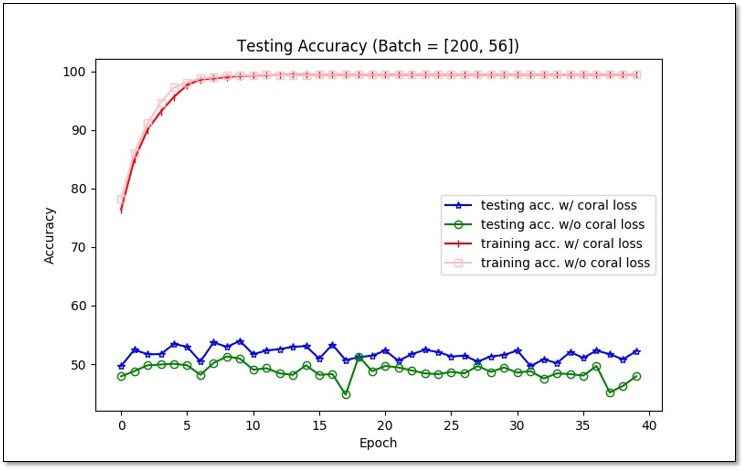
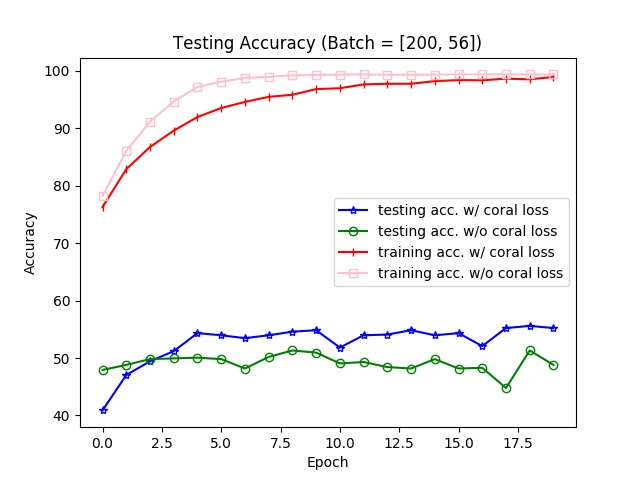
update post

diff --git a/source/_posts/deep-coral.md b/source/_posts/deep-coral.md
@@ -141,6 +141,26 @@ def backward(self, grad_output):
 可以看出有 CORAL loss 的確使得 target task 的準確率提升一些。
 不過我做出來的整體準確率並沒有與論文上的一樣有 60% 左右，而是大概在 50% 左右，不知道為甚麼… QQ
 
+# Update
+
+經過 [redhat12345](https://github.com/redhat12345) 的建議後，修正了一下 CORAL Loss 的算法，終於使 Target accuracy 提升到原論文的程度。
+```python
+def CORAL(source, target):
+    d = source.data.shape[1]
+    # source covariance
+    xm = torch.mean(source, 1, keepdim=True) - source
+    xc = torch.matmul(torch.transpose(xm, 0, 1), xm)
+    # target covariance
+    xmt = torch.mean(target, 1, keepdim=True) - target
+    xct = torch.matmul(torch.transpose(xmt, 0, 1), xmt)
+    # frobenius norm between source and target
+    loss = torch.mean(torch.mul((xc - xct), (xc - xct)))
+    loss = loss/(4*d*4)
+    return loss
+```
+
+{% zoom /img/2017-10-31/5.png 修正過後的結果。 %}
+
 # References
 
 [1] Sun, B., Saenko, K.: Deep CORAL: Correlation Alignment for Deep Domain Adaptation. In: ECCV (2016)
